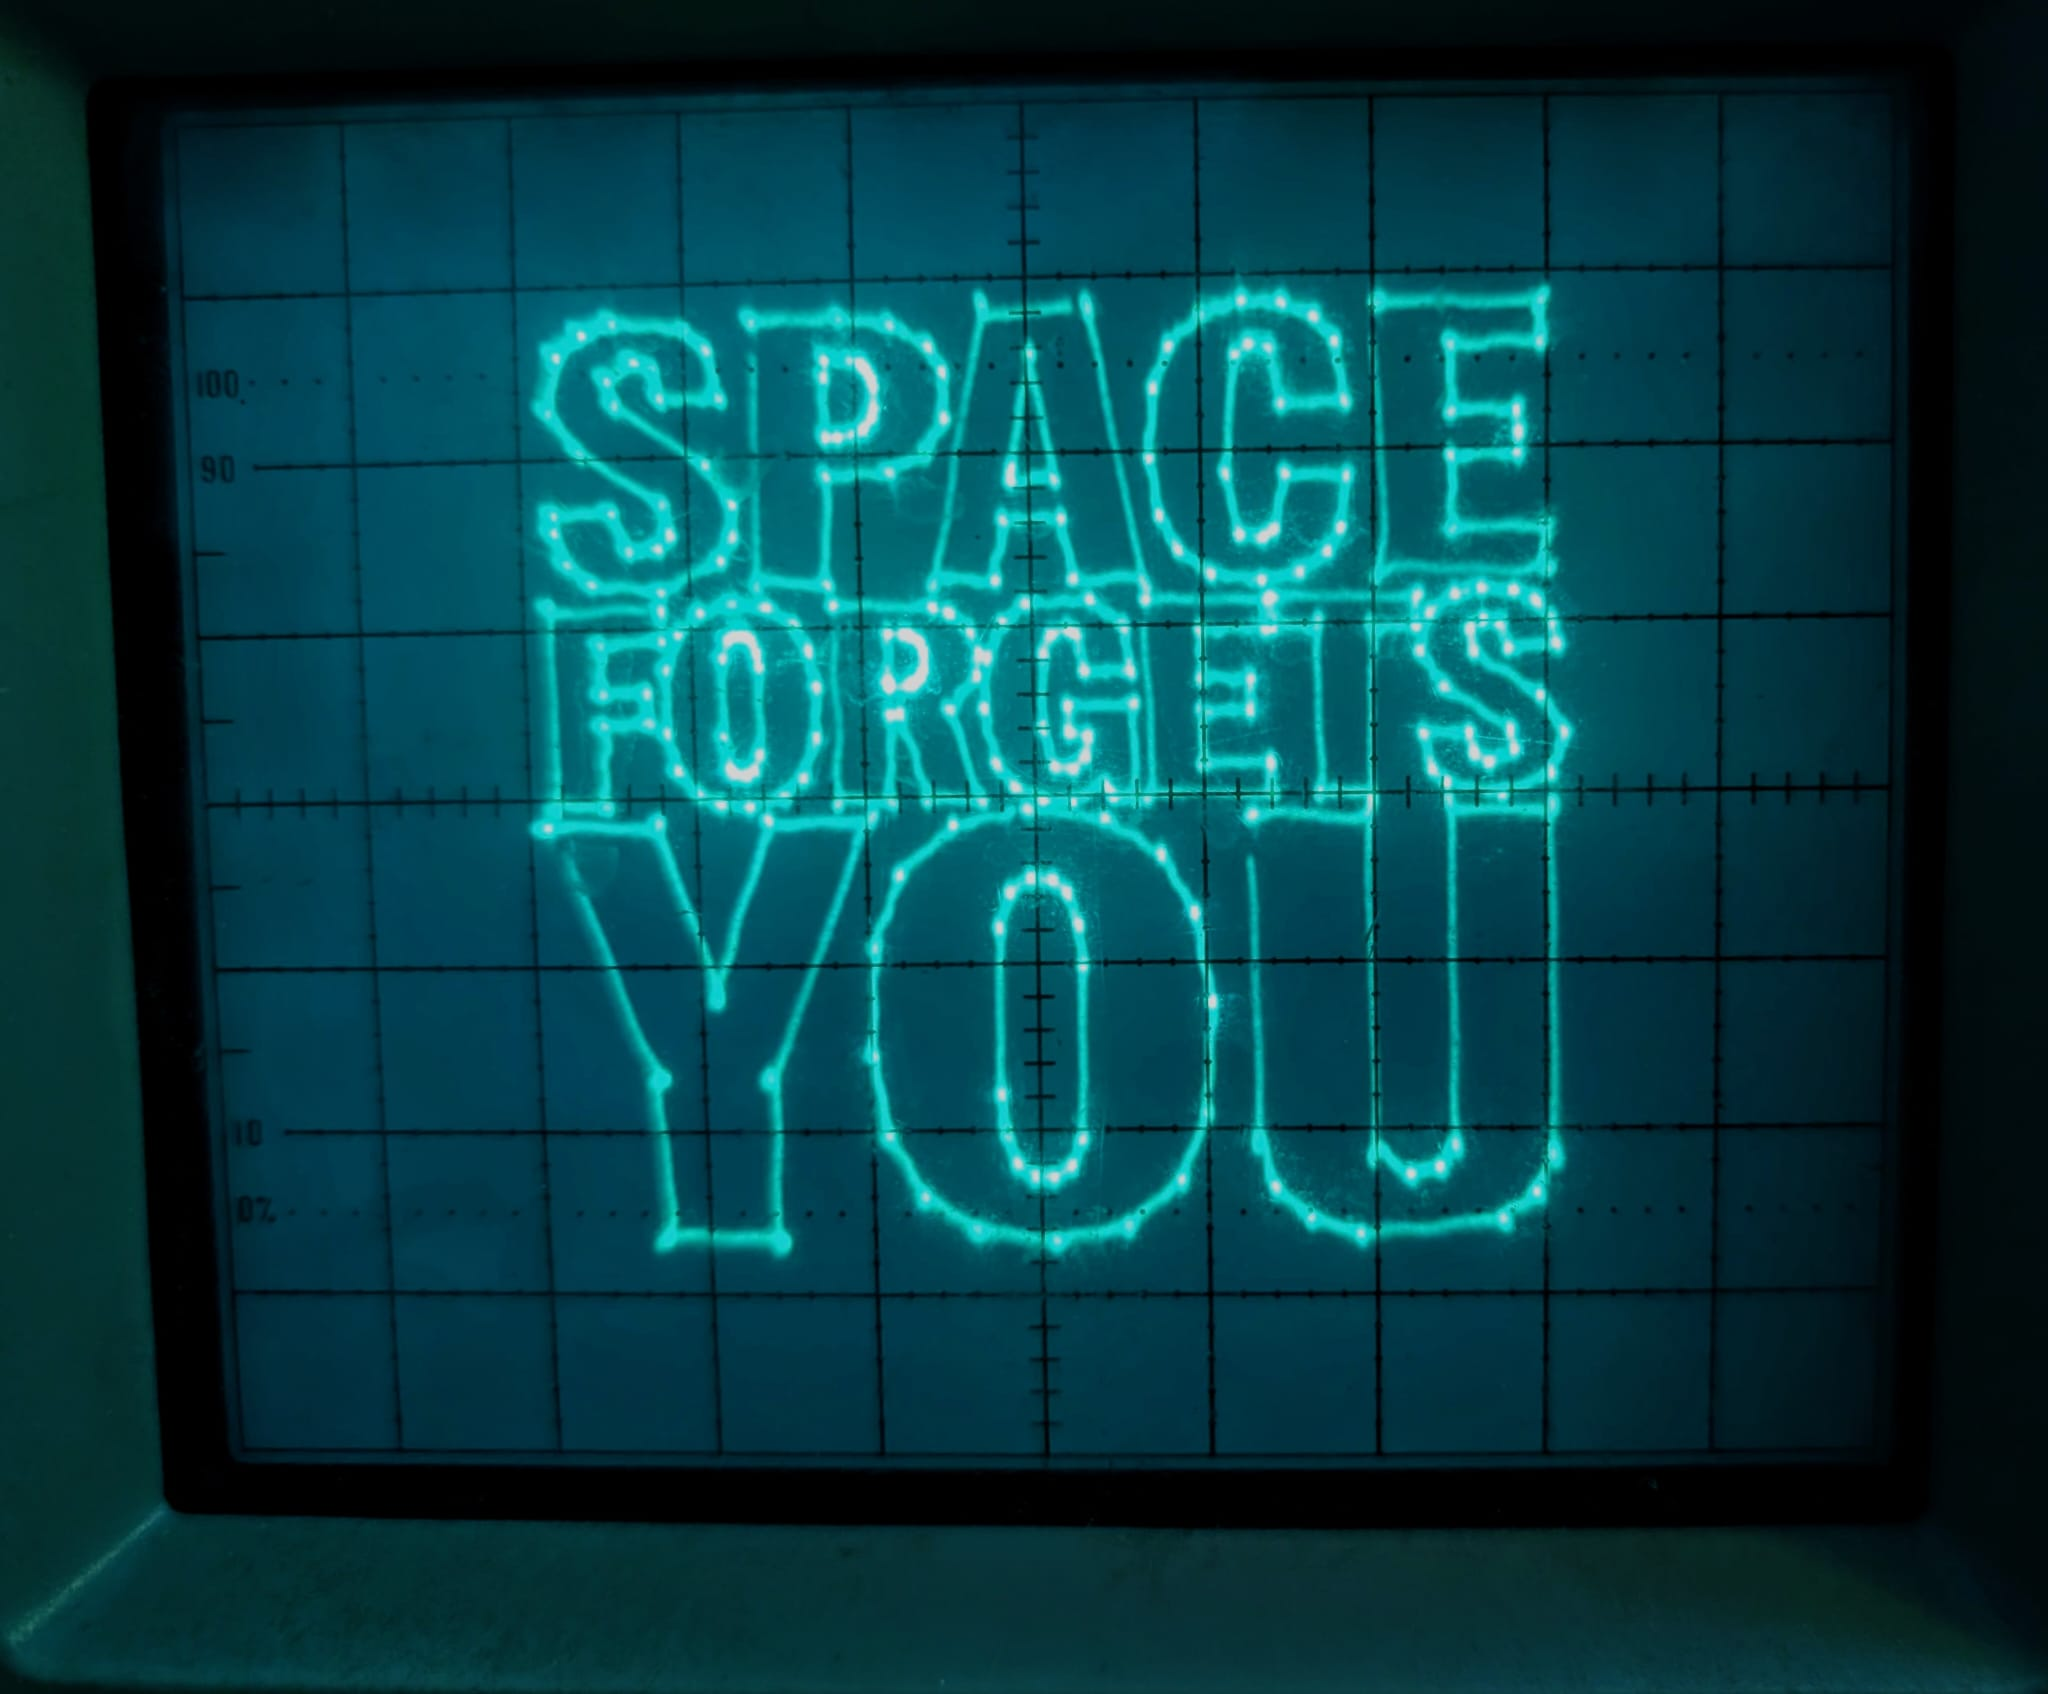
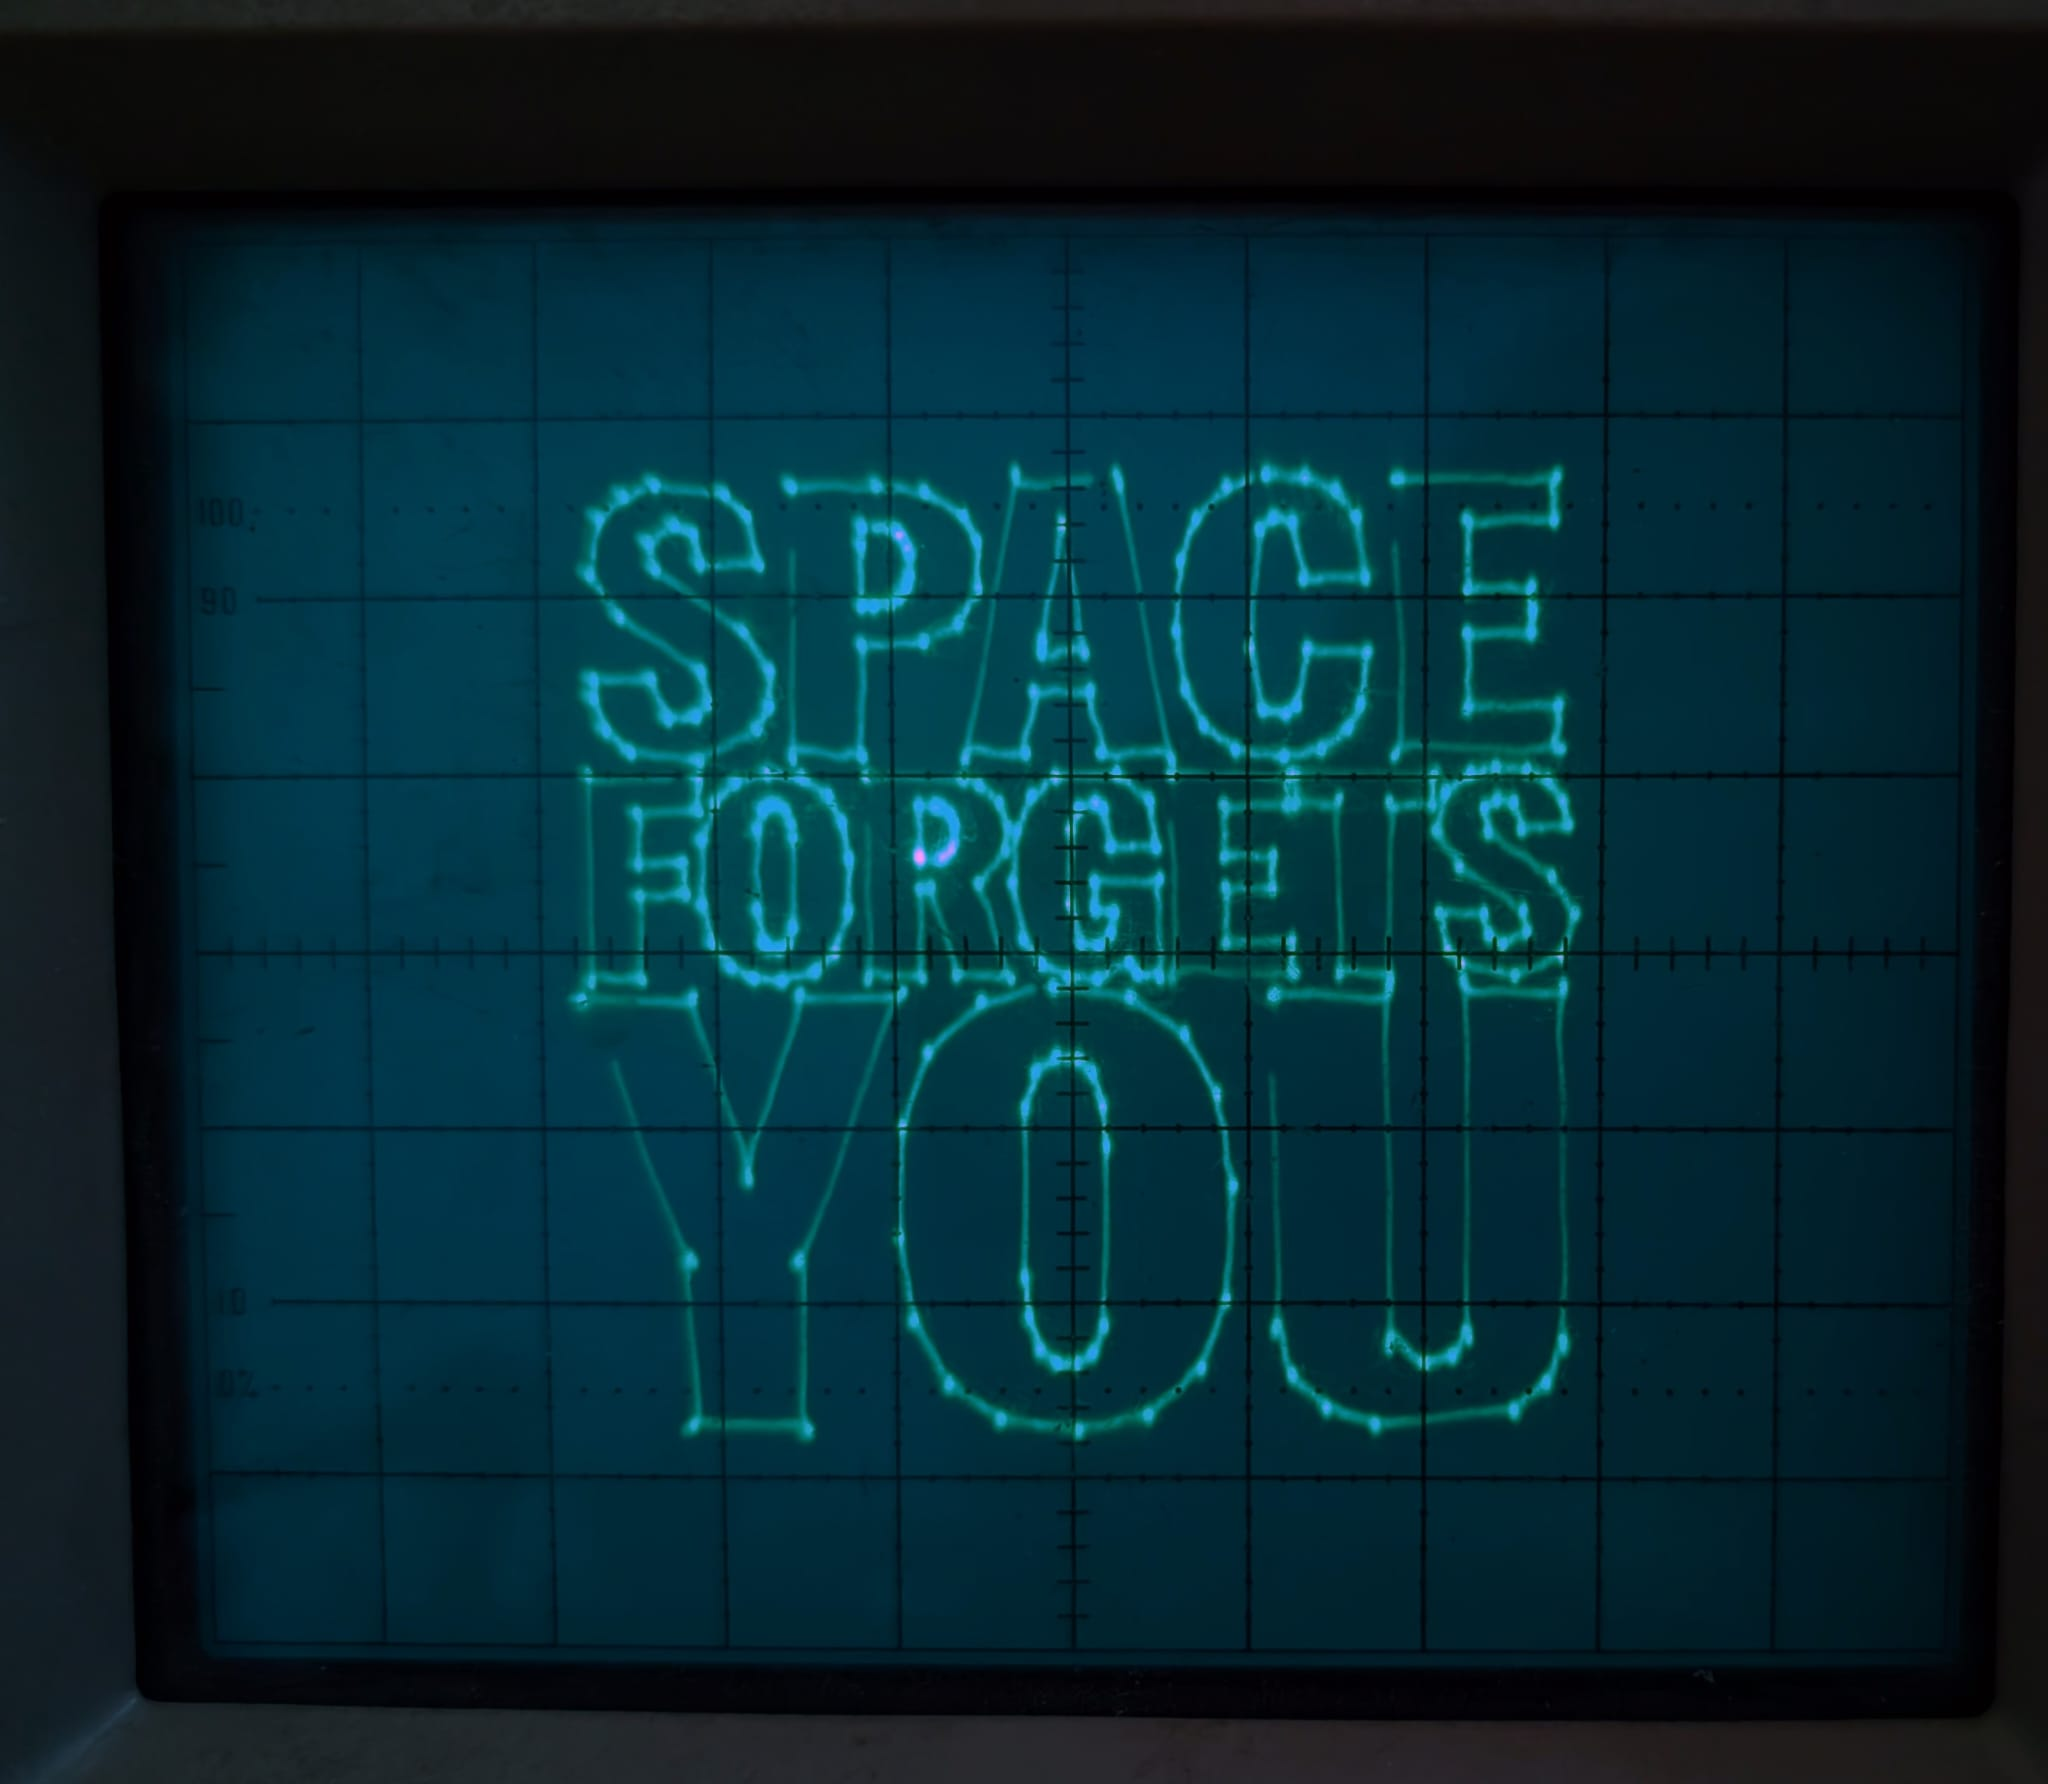
Add multi-trace waveform photo; update Curiosity section with both wave images

diff --git a/README.md b/README.md
@@ -103,7 +103,13 @@ Ever wondered what waveform the DAC actually outputs to draw a picture on an osc
 
 Here is the raw I2S output of the `space.txt` example, captured on a scope and recorded as audio:
 
-[![waveform](material/space_wave.jpg)](material/space_wave.jpg)
+Single frame — one X trace and one Y trace:
+
+[![single waveform](material/space_wave.jpg)](material/space_wave.jpg)
+
+Multiple frames overlapped — shows the overall signal shape across the whole drawing:
+
+[![multi waveform](material/space_waveMutli.jpg)](material/space_waveMutli.jpg)
 
 [▶ Listen to the sound](material/space_soud.ogg)
 
